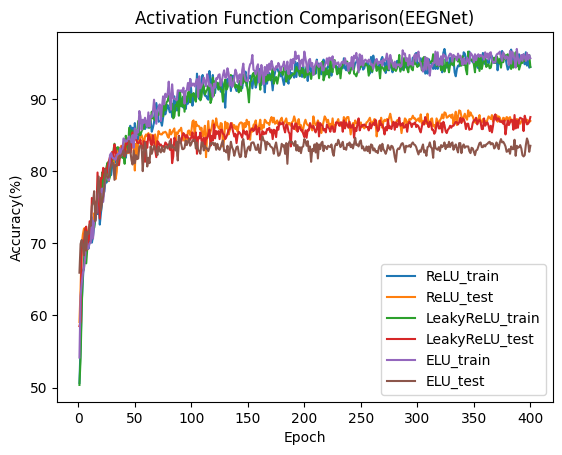
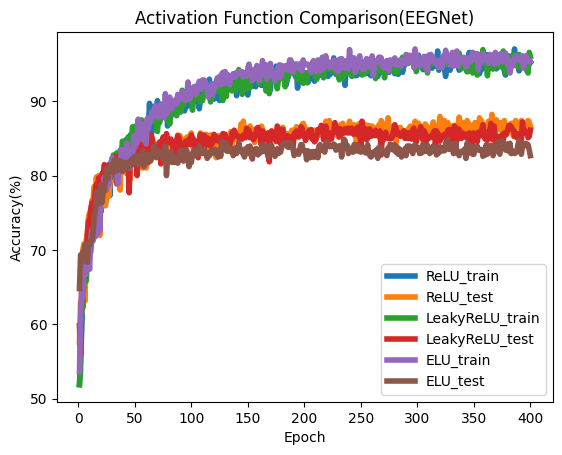
Fix figure line width

diff --git a/train.py b/train.py
@@ -39,8 +39,8 @@ if __name__ == "__main__":
         *accuracy, = epoch_loop(epochs, trainLoader, testLoader, model, loss_function, optimizer)
         print('finish\n')
 
-        plt.plot(epochList, accuracy[0], label=activation + '_train')
-        plt.plot(epochList, accuracy[1], label=activation + '_test')
+        plt.plot(epochList, accuracy[0], label=activation + '_train', linewidth=4)
+        plt.plot(epochList, accuracy[1], label=activation + '_test', linewidth=4)
 
     plt.legend()
     plt.title(f'Activation Function Comparison({network})')
